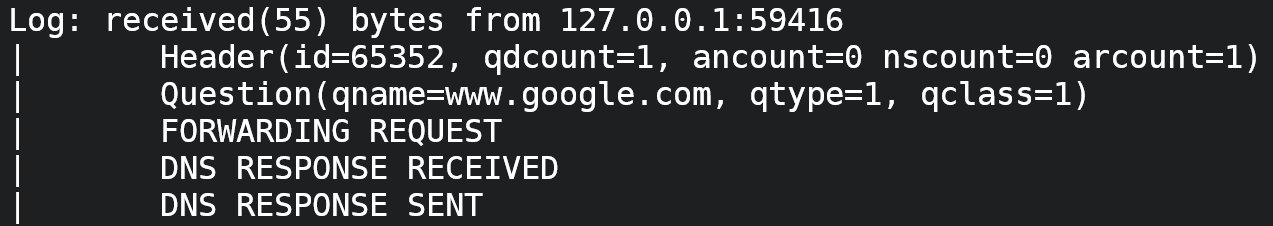
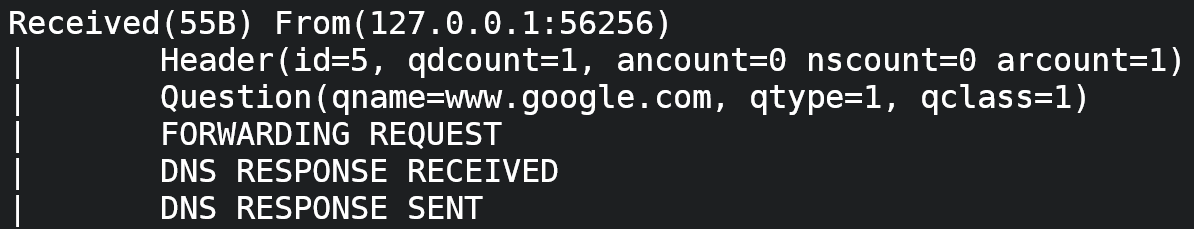
refactored server.c, updated server.png, added setup code for dns_cache

diff --git a/server.c b/server.c
@@ -8,105 +8,98 @@
 #include <arpa/inet.h>
 #include "dns.h"
 
-#define BUFFER_SIZE 1024
-#define PORT 8989
-#define DNS_IP "8.8.8.8"
-#define DNS_PORT 53
+#define Buffer_Size 1024
+#define Port 8989
+#define Dns_Ip "8.8.8.8"
+#define Dns_Port 53
+#define Error(message) ({fprintf(stderr, "Error: %s\n", message); \
+			exit(EXIT_FAILURE);}) 
 
-char *ForwardRequest(char *, int, int *);
+typedef struct Buffer {
+	char *buffer;
+	int size;
+} Buffer;
 
-char *ForwardRequest(char *buffer, int buffer_size, int *response_size) {
+Buffer Buffer_Init();
+Buffer ForwardRequest(Buffer);
+
+Buffer Buffer_Init() {
+	char *buffer = (char *)malloc(sizeof(char)*Buffer_Size);
+	memset(buffer, 0, Buffer_Size);
+	return (Buffer){.buffer=buffer, .size=0};
+}
+
+Buffer ForwardRequest(Buffer query) {
 	int sockfd = socket(AF_INET, SOCK_DGRAM, IPPROTO_UDP);
-	if (sockfd < 0) {
-		perror("Error: socket creation failed\n");
-		exit(EXIT_FAILURE);
-	}
+	if (!sockfd) Error("socket creation failed");
 
 	struct sockaddr_in server_addr;
 	memset(&server_addr, 0, sizeof(server_addr));
 	server_addr.sin_family = AF_INET;
-    server_addr.sin_port = htons(DNS_PORT);
-    if (inet_pton(AF_INET, DNS_IP, &server_addr.sin_addr) <= 0) {
-        perror("Error: IP invalid\n");
-        exit(EXIT_FAILURE);
-    }
+    server_addr.sin_port = htons(Dns_Port);
+    if (!inet_pton(AF_INET, Dns_Ip, &server_addr.sin_addr))
+		Error("IP invalid");
 	
-    sendto(sockfd, buffer, buffer_size, 0,
-		   (struct sockaddr *)&server_addr, sizeof(server_addr));
-
-	char *dns_response_buffer = (char *)malloc(sizeof(char)*BUFFER_SIZE);
-	memset(dns_response_buffer, 0, BUFFER_SIZE);
-	
+    if (!sendto(sockfd, query.buffer, query.size, 0,
+			   (struct sockaddr *)&server_addr, sizeof(server_addr)))
+		Error("send failed");
+		
+	Buffer response = Buffer_Init();	
     struct sockaddr_in recv_addr;
 	int recv_size = sizeof(recv_addr);
-	*response_size = recvfrom(sockfd, dns_response_buffer, BUFFER_SIZE, 0,
-							(struct sockaddr *)&recv_addr, &recv_size);
-    if (!*response_size) {
-        perror("Error: DNS response receive error\n");
-        exit(EXIT_FAILURE);
-    }
-
+	response.size = recvfrom(sockfd, response.buffer, Buffer_Size, 0,
+							 (struct sockaddr *)&recv_addr, &recv_size);
+    if (!response.size) Error("DNS response receive error");
 	printf("|\tDNS RESPONSE RECEIVED\n");
 
     close(sockfd);
-    return dns_response_buffer;
+    return response;
 }
 
 int main() {
 	int sockfd = socket(AF_INET, SOCK_DGRAM, IPPROTO_UDP);
-	if (sockfd < 0) {
-		perror("Error: socket creation failed\n");
-		exit(EXIT_FAILURE);
-	}
+	if (!sockfd) Error("socket creation failed");
 
 	struct sockaddr_in server_addr;
 	memset(&server_addr, 0, sizeof(server_addr));
 	server_addr.sin_family = AF_INET;
 	server_addr.sin_addr.s_addr = htonl(INADDR_ANY);
-	server_addr.sin_port = htons(PORT);
+	server_addr.sin_port = htons(Port);
+	if (bind(sockfd, (struct sockaddr *)&server_addr, sizeof(server_addr)) < 0)
+		Error("socket bind failed");
 
-	if (bind(sockfd, (struct sockaddr *)&server_addr, sizeof(server_addr)) < 0) {
-		perror("Error: socket bind failed\n");
-		exit(EXIT_FAILURE);
-	}
-
-	char *buffer = (char *)malloc(sizeof(char)*BUFFER_SIZE);
-	memset(buffer, 0, BUFFER_SIZE);
+	Buffer query = Buffer_Init();
     while (1) {
         struct sockaddr_in client_addr;
         socklen_t client_len = sizeof(client_addr);
-        int recv_len = recvfrom(sockfd, buffer, BUFFER_SIZE, 0,
-                                (struct sockaddr *)&client_addr, &client_len);
-        if (recv_len < 0) {
+        query.size = recvfrom(sockfd, query.buffer, Buffer_Size, 0,
+							  (struct sockaddr *)&client_addr, &client_len);
+        if (!query.size) {
             close(sockfd);
-            perror("Error: receive failed");
-            exit(EXIT_FAILURE);
+            Error("receive failed");
         }
 
-        printf("Log: received(%d) bytes from %s:%d\n", recv_len,
+        printf("Received(%dB) From(%s:%d)\n", query.size,
                inet_ntoa(client_addr.sin_addr), ntohs(client_addr.sin_port));
 
-        Dns_Header header = Dns_ParseHeader(buffer);
+        Dns_Header header = Dns_ParseHeader(query.buffer);
 		printf("|\tHeader(id=%d, qdcount=%d, ancount=%d nscount=%d arcount=%d)\n",
 			   header.id, header.qdcount, header.ancount, header.nscount, header.arcount);
 
-		Dns_Question question = Dns_ParseQuestion(buffer);
+		Dns_Question question = Dns_ParseQuestion(query.buffer);
 		printf("|\tQuestion(qname=%s, qtype=%d, qclass=%d)\n",
 			   question.qname, question.qtype, question.qclass);
 		
 		printf("|\tFORWARDING REQUEST\n");
 
-		int response_size;
-		char *dns_response = ForwardRequest(buffer, recv_len, &response_size);
+		Buffer response = ForwardRequest(query);
 
-		if (sendto(sockfd, dns_response, response_size, 0,
+		if (sendto(sockfd, response.buffer, response.size, 0,
 				   (struct sockaddr *)&client_addr, client_len) < 0) {
 			close(sockfd);
-			perror("Error: could not send DNS response back to client\n");
-			exit(EXIT_FAILURE);
+			Error("could not send DNS response back to client");
 		}
 		printf("|\tDNS RESPONSE SENT\n");
-		
     }
 	
 	close(sockfd);

diff --git a/dns_cache.h b/dns_cache.h
@@ -1,0 +1,30 @@
+#ifndef DNSFWDR_DNS_CACHE_H_
+#define DNSFWDR_DNS_CACHE_H_
+
+#define Dns_CacheSize 2048
+
+typedef struct Dns_Entry {
+	char *query;
+	char *response;
+	char *additional;
+} Dns_Entry;
+
+typedef struct Dns_Cache {
+	Dns_Entry table[Dns_MaxCacheSize];
+	int size;
+} Dns_Cache;
+
+unsigned int Dns_Hash(char *);
+void Dns_CacheInsert(Dns_Cache *, Dns_Entry);
+
+unsigned int Dns_Hash(char *buffer) {
+	char *itr = buffer;
+	unsigned long long hash = 0;
+	while (itr) {
+		hash = *itr + hash<<6 + hash<<16 - hash;
+		itr++;
+	}
+	return hash%Dns_CacheSize;
+}
+
+#endif // DNSFWDR_DNS_CACHE_H_

diff --git a/README.md b/README.md
@@ -26,3 +26,4 @@
 ## References
 - [Coding Challenges - Build Your Own DNS Forwarder](https://codingchallenges.fyi/challenges/challenge-dns-forwarder)
 - [RFC 1035 Section 4.1.1 - DNS query format](https://datatracker.ietf.org/doc/html/rfc1035#section-4.1)
+- [Hash functions - sdbm](http://www.cse.yorku.ca/~oz/hash.html)
